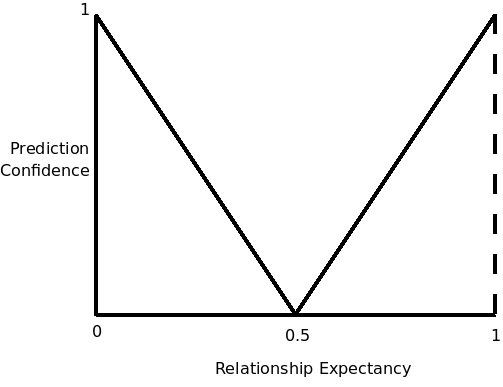
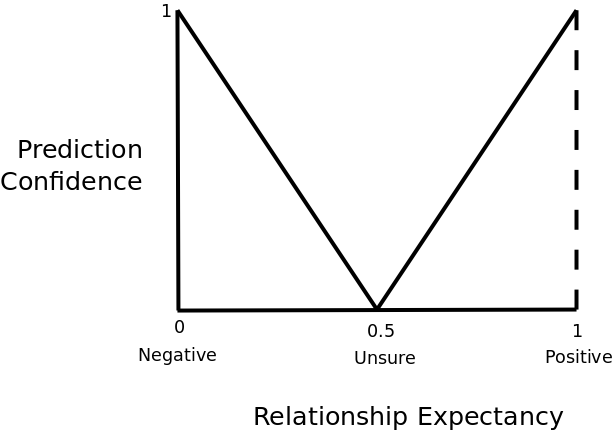
expanded the thesis beginning - analysis

diff --git a/docs/dp_recommender_cvengros.tex b/docs/dp_recommender_cvengros.tex
@@ -175,8 +175,9 @@ Supervisor's e-mail address: \vedoucimail\\
     
     Recommender systems are programs operating on large amount of data in software systems. Recommender systems try to present items such as books, music, news, etc. that are likely to be interesting for a given user. These systems may be helpful for users that are choosing between a large number of items and aren't willing to browse information about all available items.
     
-    Traditional recommender systems are specific to a particular domain of recommended items. Our view is more general and involves domain independence and a prediction of any type of relationship between the objects in the domains. The thesis aims to create a prototype of a \emph{Universal Recommender} system, a system applicable to various domains, prediciting relationships of the given type using already known relationships.
+    Traditional recommender systems are specific to a particular domain of recommended items. Our view is more general and involves domain independence and a prediction of any type of relationship between the entities in the domains. The thesis aims to create a prototype of a \emph{Universal Recommender} system, a system applicable to various domains, prediciting relationships of the given type using already known relationships.
     
+    %tohle opravit
     In the introductory chapter we describe the basic structure of the thesis. Then we give a formal definition of a recommender system. Finally we review projects and papers that have been created on the universal recommender topic.
     
     \section{Thesis Structure}
@@ -186,26 +187,94 @@ Supervisor's e-mail address: \vedoucimail\\
     \section{Thesis Concepts}
         The section describes the main concepts of the thesis. We list the most important features, establish the purpose of the thesis and briefly show the distinction from the existing work.
         
+        \subsection{Main Features}
         The main concepts of the thesis are:
         \begin{description}
                 \item[Problem analysis and design of a solution.] The main goal of the work is to analyze the problem of a universal recommender, to create an architecture of the recommender system, design its interfaces and provide an implementation draft. The intefaces should be usable in real-world applications.
                 \item[Domain independence.] The recommender should work on any domain it's addapted to. It can't rely on any domain-specific assumptions. 
                 \item[Using various relationships.] For the recommendation, the recommender should be able to use any number of relationships available in the domain.
                 \item[Recommending given relationship.] The recommender should be able to predict any given relationship, not just the ``rating'' relationship as most recommenders do.
-                \item[A recommender, not a framework.] The adaptation to the given domain should be simple and without any need for programming. As opposed to recommendation frameworks that give resources to implement a recommender, our system should be a complete recommender ready to be addapted and used on an arbitrary domain.
-                \item[Pluggable user interface.] The recommender should contain a web-based user interface for presenting the recommendations. The interface should be pluggable an existing web application, so that it can look like a part of the system and the user doesn't have to leave system web pages. 
+                \item[A recommender, not a framework.] The adaptation to the given domain should be simple and should require minumum changes in the parent system. As opposed to recommendation frameworks that give resources to implement a recommender, our system should be a complete recommender ready to be addapted and used on an arbitrary domain.
+                \item[Pluggable user interface.] The recommender should contain a web-based user interface for presenting the recommendations. The interface should be pluggable to an existing web application, so that it can look like a part of the system and the user doesn't have to leave system web pages to see his/her recommendations. 
                 \item[Verification on various domains.] The recommender should be addapted to at least three domains to verify its universality and usability of the recommender interfaces. 
         \end{description}
         \subsection{Out of Scope}
         The section lists features that are relevant but out of the thesis scope. 
         \begin{description}
             \item[] preciznost a skalovatelnost implementace, optimalizace a rychlost dane implemetnace
-            \item[]dalsi hustoficury, ktere nestihnu, 
             \item[]nebudu merit vykon v case jenom nejak plus minus asymptoticky
             \item[Central server for multiple systems.] A single Unresyst instance isn't intended to be used as a central server for multiple domains - a Unresyst instance always refers to a single domain. Unresyst doesn't deal with matching the same subjects and objects appearing in multiple systems. 
-            \item[Collecting user preference] Unresyst doesn't help the system collecting any user actions for recommending. Implicit and explicit user feedback can be used for generating recommendations in Unresyst, but it has to be handled by the outer system and passed to Unresyst in the form of business rules and relationships. 
+            \item[Collecting user preference] Unresyst doesn't help the system collecting any user actions for recommending. Implicit and explicit user feedback can be used for generating recommendations in Unresyst, but it has to be handled by the outer system and passed to Unresyst in the form of business rules and relationships.
+            %\item[]dalsi hustoficury, ktere nestihnu, 
         \end{description}
 
+\chapter{Recommender Analysis}
+    \label{recommender_analysis}
+    In the chapter we discuss the circumstances under which recommender systems are a preferrable option both for users and system holders. Later in the chapter we describe the reasons for using our universal recommender (\emph{Unresyst}), we compare our recommender to existing solutions. Finally we formally define the problem of recommending.
+    
+    Recommender system is a part of a web-based application, that uses data about users and their behaviour to provide users with  items which are the most relevant to them. The recommended items are typically things that are liable to user taste, like books, music, news, etc.
+    
+    \section{Recommender System Benefits}
+        \label{recommender_system_usage}
+        The section summarizes reasons why recommender systems are useful for both users and system holders.
+        
+        \subsection{Benefits for System Users}
+            \label{benefits_for_users}
+            In a web-system like an e-shop or an internet radio a user is overloaded with items. The system database typically contains thousands of items divided into several categories. The recommender provides user with items that are likely to be interesting without requiring him/her to search for them. This saves user's time and helps him/her spend more time exploring the interesting items than messing around uninteresting items. The provided recommendations are personalized, they reflect the past user's behaviour and available data, so the recommendations are likely to be much accurate. 
+            
+            Recommender systems help users find novel items. When a user only browses and searches the system items, he/she usually gets stuck on a relatively small group of items. The recommendations usually contain items chosen by various criteria, so that they contain both items the user is familiar with and items that are likely to be interesting for the user, but the user wouldn't otherwise discover them.
+            
+            Apart from that, a recommender system can predict user's interest for a particular item. E.g. the last.fm festival recommender can predict user's interest in a particular festival based on the user's taste and the festival lineup \ref{lastfm_festivals}. This also saves user's time, he/she doesn't have to examine details of the items he/she that aren't likely to be interesting for him/her.
+        
+        \subsection{Benefits for a System Holder}
+            \label{benefits_for_holders}
+            A satisfied user is a key for the success of a web-system business. If the user easily finds interesting items in the system, he/she tends to return to the system regularly, which results in a high visit rate. 
+            
+            In an e-shop, if a user easily finds items that are appropriate for him/her, he/she is more likely to buy them. In a non-retail system like an internet radio, the system holder can also profit from a user finding appropriate items quickly. The user spends more time on pages that provide interesting information for him/her, which leads to more appropriate context advertisements with higher earnings.
+            
+            Another interesting feature recommender systems provide to e-shop holders is the ability to include promoted items to recommendations. E-shop holders can artificially increase the recommendation rates of the promoted goods in order they apeear in recommendations for more users. However, this feature should be used moderately because it distorts the results of the recommender algorithm. A massive propagation of items that are promoted by the system holder but are not very interesting for particular users may lead to a loss of user's trust for the recommender.
+            
+            And last but not least, a recommender system provieds a competitive advantage. Web business leaders like Google or Amazon have already implemented recommenders in their systems, for smaller companies a recommender system may be a key advantage over their rivals.
+    
+    \section{Universal Recommender Analysis}
+        \label{universal_recommender_analysis}
+        In the section we describe the position of the proposed recommender system (\emph{Unresyst}) on the market. We depict advantages and disadvantages of the Unresyst recommdender, we compare Unresyst to existing sollutions. Finally we propose processes for incorporating Unresyst to a web-based system and for running a system involving Unresyst.
+        
+        The proposed Unresyst recommender is a domain-independent recommender system that is able to use various relationships between the domain entities. Unresyst is an independent software component that logically stands outside the web-based parent system. It comminicates with the parent system through a defined API. Detailed information on the system architecture can be found in the section \ref{architecture}. 
+        
+        Unresyst itself doesn't contain any domain-specific data or methods. In order to work correctly on the given domain, it has to be addapted to it. Addaptation data make Unresyst use domain knowledge for making recommendations. Addaptation is designed so that it's as easy as possible. Adaptation data are stored in the parent system and are used during the communication with Unresyst. Detailed description on the adaptation can be found in the section \ref{adaptation_data}. 
+        
+        In order to provide high quality recommendations, Unresyst can take use of any \emph{relationships} between the entities in the system domain. Additionally, the business knowledge can be transformed to \emph{rules} and used for generating recommendations. Both rules and relationships are stored in the addaptation data. See sections \ref{representing_rules}, \ref{representing_relationships} for details on rule and relationship representation.
+        
+        \subsection{Universal Recommender Applicability}
+            \label{universal_recommender_applicability}
+            
+            Compaines that run big global web-systems generally have enough resources to develop their own recommender systems that are specifically designed for their needs. Therefore, Unresyst is aimed at small and mid-size web systems. The goal of the Unresyst concept is to provide companies a way to implement a recommender system without having to develop their own recommender solution, which is often both time and money consuming. With a bit of configuration, Unresyst provides the recommending accuracy comparable to a custom-made recommender system.
+            
+            Data that can be used by Unresyst include but are not limited to:
+            \begin{description}
+                \item[Demographic information] both user and items
+                \item[User behaviour]
+                \item[Explicit feedback]
+                \item[Social relations]
+                \item[Other user attributes]
+                \item[Other item attributes]
+             \end{description}
+        \subsection{Comparison to Existing Solutions}
+        
+        \subsection{Unresyst Process Proposal}
+            depends on particular company, environment, brief
+        
+        
+        
+
+    \section{Comparison}
+        \subsection{Advanced Search}
+        Some systems provide advanced item search 
+        - user activity
+        - user knows what he wants
+        - taste 
+        - sorted by relevance to search criteria not by preference
         
     \section{Definitions}
         \label{definitions}
@@ -236,7 +305,7 @@ Supervisor's e-mail address: \vedoucimail\\
             There are two differences to the definition in \cite{survey}. Firstly, we define our function on a \emph{Subject domain $S$}, instead of the User domain. In our view an adressee of a recommendation can be anything, not just a user. In some cases $S=O$, e.g. when we are recommending new friends to a user.  Secondly, we parametrize the utility function by the given relationship type $R$. In our system a recommendation can be done in the means of the given relationship type. 
             
         \subsection{Relationship Prediction}
-            \label{relationship_prediction}
+            \label{def_relationship_prediction}
             \emph{Relationship Prediction} $\hat{u}$ is an approximation of the utility function $u$: 
             \begin{equation}
                 \label{eq_relationship_prediction}
@@ -246,7 +315,7 @@ Supervisor's e-mail address: \vedoucimail\\
             
             For a given subject-object pair, $\hat{u}$ gives:
             \begin{description}
-                \item[Expectancy:] the predicted probabilitity of occurence of the given relationship type between the subject and the object. It's a number between $0$ and $1$. The value $1$ is reserved for the subject-object pairs, that are already connected by the relationship of the given type. Thus, the objects with relationship expectancy $1$ aren't presented to the subject. The recommended objects are usually presented ordered by the expectancy. The exact expectancy value doesn't have to be presented to the subject.
+                \item[Expectancy:] the predicted probabilitity of occurence of the given relationship type between the subject and the object. It's a number between $0$ and $1$. The value $1$ is reserved for the subject-object pairs, that are already connected by the relationship of the given type. Thus, the objects with relationship expectancy $1$ usually aren't presented. The recommended objects are usually presented ordered by the expectancy. The exact expectancy value doesn't have to be presented.
                 \item[Explanation:] a textual explanation why the object has been recommended. For some recommender algorithms explanations aren't available.
                 %\item[Relationship metadata values]: coming soon
             \end{description}
@@ -255,18 +324,22 @@ Supervisor's e-mail address: \vedoucimail\\
             
             Our concept is similar to the one used in the Duine framework \cite{duine}. The prediction techniques in Duine give a \emph{Prediction}, \emph{Validity indicators} and an \emph{Explanation} for each subject-object pair. \emph{Prediction} is an estimation of subject's rating of the object. \emph{Validity indicators} determine the \emph{confidence} of the techinque when predicting the rating. Low values mean, that the technique isn't confident about the \emph{Prediction} for the given subject-object pair, e.g. it doesn't have enough information to make a valid prediction. \emph{Explanation} has the same meaning as the one in our recommender. 
              
-            In a universal recommender we can't assume there will be a rating relationship between subjects and objects. Moreover, we are supposed to be able to predict any given relationship between subjects and objects, not just the preference expressed by the rating. In a Universal recommender, we only predict a $0/1$ indicator: the predicted relationship is between the given the subject and object, or it isn't. Hence we can shrink the prediction and confidence concepts into one - relationship expectance. 
+            In a universal recommender we can't assume there will be a rating relationship between subjects and objects. Moreover, we are supposed to be able to predict any given relationship between subjects and objects, not just the preference expressed by the rating. In a Universal recommender, we only predict a $0/1$ indicator: there is the predicted relationship between the given subject and object, or there isn't. Hence we can shrink the prediction and confidence concepts into one - relationship \emph{expectancy}. 
             
-            Let's show the reduction on an example. A recommender predicts, that \emph{Bob} will like the \emph{Five Days In Paris} book with $20\%$ probability. The like expectancy is $0.2$, which can be rewritten as giving prediction $1$ (Bob will like it) with the prediction confidence $0.2$. For us, this is the same as predicting that Bob won't like it with $80\%$ probability - giving a prediction $0$ with prediction confidence $0.8$. This is because, in our relationship representation, Bob either likes the book, or he doesn't. The events ``Bob likes the book'' and ``Bob doesn't like the book'' are complementary.
+            Let's show the reduction on an example. A recommender predicts, that \emph{Bob} will like the \emph{Five Days In Paris} book with $20\%$ probability. The like expectancy is $0.2$. For us, this is the same as predicting that Bob won't like it with $80\%$ probability. This is because, in our relationship representation, Bob either likes the book, or he doesn't. The events ``Bob likes the book'' and ``Bob doesn't like the book'' are complementary.
             
-            In other words, low relationship expectance can mean low prediction value with high confidence as well as high prediction value with low confidence. But as the predicted indicator is of a $0/1$ type, we don't have to differentiate these cases. 
+	    % like s 20% confidence neni to samy jako like s 20% expectancy. Confidence u like musi zacinat na 0.5. Pod 0.5 je to dislike - pomoci confidence se nejde prepnout z like do dislike.
             
             % napr. prediction 0, confidence 0.75 je to samy jako prediction 1, confidence 0.25. Protoze P(0) = 0.75 = 1-0.25 - protoze jevy 0 a 1 se vylucuji. 
             
-            The dependency between relationship expectancy and prediction confidence is illustrated on the figure \ref{pic_expectancy_confidence}. Let prediction confidence be a function to $[0,1]$ determining how sure the recommender is about the given relationship prediction. Expectancy values just above zero indicate that the recommender is quite sure that there won't be the given relationship between the given subject-object pair. Expectancy values near $0.5$ mean low confidence for the prediction. Especially $0.5$ means that according to the recommender, the probability of the relationship occurence is the same as for non-occurence. Expectancy values close to $1$ mean that recommender is quite sure, that there be the given subject-object pair will be connected by the given relationship. 
+            The dependency between relationship expectancy and prediction confidence is illustrated on the figure \ref{pic_expectancy_confidence}. Let prediction confidence be a function to $[0,1]$ determining how sure the recommender is about the given relationship prediction. Expectancy values just above zero indicate that the recommender is quite sure that there won't be the given relationship between the given subject-object pair. Expectancy values near $0.5$ mean low confidence for the prediction. Especially $0.5$ means that according to the recommender, the probability of the relationship occurence is the same as for non-occurence. Expectancy values close to $1$ mean that recommender is quite sure, that the given subject-object pair will be connected by the given relationship. 
 
-            \fig[9]{pics/expectancy_confidence.png}{The dependency between relationship expectancy and prediction confidecne.}{pic_expectancy_confidence}
-
+            \fig[9]{pics/expectancy_confidence.png}{The dependency between relationship expectancy and prediction confidence.}{pic_expectancy_confidence}
+	    
+	    Expectancy can be useful for ordering the obtained recommended objects. For example, let's suppose we are predicting the ``like`` relationship and the list of recommended objects is ordered by the expectancy. At the beginning of the list there are objects the subject will probably like (the expectancy is close to $1$). Then there are objects the recommender is not sure about (the expectancy is around $0.5$). At the bottom of the list there are objects that will be probably disliked by the subject (the expectancy is close to $0$).
+	    
+	    On the other hand, expectancy isn't much intuitive for specifying the relationships in a system, so giving positiveness and confidence are used there (see \ref{representing_relationships}, \ref{representing_rules}).
+	    
             In our universal recommender we don't support rating prediction directly. But as subject-object rating means a level of subject-object preference, we can estimate rating using our relationship expectancy. We only need to define mapping from relationship expectancy values to rating. Taking the subject and object from the previous example (Bob and Five Days in Paris), we can interpret Bob's $0.2$ like relationship expectation, to the rating 1 star on a 0 to 5 star scale. 
 
         \subsection{Recommendation}
@@ -280,7 +353,7 @@ Supervisor's e-mail address: \vedoucimail\\
             
             The recommender always chooses exactly $N$ objects, except the case where there are less than $N$ objects available for recommendation. The chosen objects are presented to the subject ordered by the Recommendation Rate.
             
-            For instance, using the example in \ref{relationship_prediction}, the friendship recommender presents ten other community server users to Alice. The users are sorted by the relationship prediction rate which reflects the number of mutual friends.
+            For instance, using the example in \ref{def_relationship_prediction}, the friendship recommender presents ten other community server users to Alice. The users are sorted by the relationship prediction rate which reflects the number of mutual friends.
         
         \subsection{Adaptation}
         \subsection{Relationship for Recommender}
@@ -532,7 +605,8 @@ Supervisor's e-mail address: \vedoucimail\\
         obrazek class diagram:
 	    Classes are displayed as rectangles, objects as rectangles with round corners. All the classes are \emph{purely static} - there are no instances of the classes, the classes contain only class methods. They act as singleton objects.
 	    The diamond relationships mean that the given class/object can be accessed only from the containing class. 
-        
+    \section{Adaptation Data}
+        \label{adaptation_data}
         \subsection{Representing Rules}
             \label{representing_rules}
             
@@ -540,7 +614,7 @@ Supervisor's e-mail address: \vedoucimail\\
             
             The RACOFI framework \cite{racofi} uses two types of actions: \emph{Modify} that modifies the predicted subject's object rating by a given constant and \emph{Not Offered} that excludes an object from subject's recommendation.
             
-            Our rules aren't modifying predictions, but they serve as an input for predicting. Therefore we will use absolute  relationship expectancy, not relative values as in RACOFI \emph{Modify} rules. The \emph{Not Offered} rule type can be represented by a rule giving the minimal possible expectancy, so we won't have a special rule type for it. 
+            Our rules aren't modifying predictions, but they serve as an input for the predicting algorithm. Therefore we will use absolute values, not relative values as in RACOFI \emph{Modify} rules. The \emph{Not Offered} rule type can be represented by a rule giving minimal value, so we won't have a special rule type for it. 
             
             In our rules we would also like to represent inter-entity similarity. Hence we will use the following types of rules:
             \begin{description}
@@ -555,18 +629,31 @@ Supervisor's e-mail address: \vedoucimail\\
             
             Another option would be to directly use a logic programming language as \emph{Prolog}. This option has the same drawbacks in over-generality and user-unfriedliness as RuleML. Additionally we would have to incorporate a logic programming language interpreter to Unresyst.  
             
-            A better option is to implement our own \emph{Object-oriented rule representation}, where we represent rules as instances of a rule class. In the addaptation phase, the domain expert instantiates the pre-defined class to create a business rule.
+            A better option is to implement our own \emph{Object-oriented rule representation}, where we represent rules as instances of a rule class. In the addaptation phase, the domain expert instantiates the pre-defined classes to create  business rules.
             
             In the figure \ref{pic_semantic_network} there is an example of a semantic network that can be a part of the parent system. The network belongs to a shoe e-shop. Alice and Bob are users living in the same city. Alice has searched the word ``trainers'' which is a part of the description of the pictured trainers. In the trainer shoe description there's also the word ``comfortable'', which is also a part of the description of the displayed rubber boots. Bob has viewed a profile page of the trainers. The trainers and the rubber boots were made by a manufacturer seating in the city where Alice and Bob lives.
             
             \fig{pics/semantic_network.png}{A sample semantic network for demonstrating rules and relationships.}{pic_semantic_network}
             
+            The \emph{expectancy} concept (\ref{def_relationship_prediction}) is powerful but not very intuitive for defining the impact of the rules on predicting relationships. By defining a rule with expectancy we would be able to indicate positive as well as negative impact on predicting the given relationship because low values of expectancy have negative impact on preference and high values positive. Defining directly the expectancy of a rule would result in complicated functions and could lead to confusion and misinterpretation. Hence, for rule definition, we use a less general but more intuitive concept of \emph{confidence} and \emph{positiveness}.
+            
+            Each rule is either defined as \emph{positive} or \emph{negative}. Positive rules increase the prediction of the given relationship, negative rules decrease it. Each rule additionally has a confidence function defining how strong (positive resp. negative) the rule is for the given pair of entities. Events that can have both positive and negative impact should be represented by two rules.
+%             synergic
+            
+            % kdyz chces udelat relationship ktere kdyz neni, tak je to negative, tak si udelej dve relationships
+            
+            %to samy u rules - idea je aby to pocitalo jenom s tim co mu explicitne zadas. to ze mu reknes, nedoporucuj zimni boty jizanum jeste neznamena doporucuj zimni boty severanum - pokud to chce, at si na to explicitne zada pravidlo.
+            
+            %expectancy mu vubec nedovolim zadavat - to si budu pocitat sam.
+            
             In the examples, we will be predicting the \emph{like} relationship, representing the preference of the user to the given shoe pair. We will demonstrate the rule definition on the following rules:
             \begin{enumerate}
-                \item \label{ex_s_o} If a user is from a city in the south, we won't recommend him/her winter shoes.
-                \item \label{ex_s_s} If two users are about the same age, they are considered similar. 
-                \item \label{ex_o_o} When two pairs of shoes have in their description some common words, they are considered similar.
+                \item \label{ex_s_o} If a user is from a city in the south, we won't recommend him/her winter shoes (negative).
+                \item \label{ex_s_s} If two users are about the same age, they are considered similar (positive).
+                \item \label{ex_o_o} When two pairs of shoes have in their description some common words, they are considered similar (positive).
             \end{enumerate}
+            
+            Note that we define only one side of the rules (either positive or negative). E.g. by defining that we won't recommend winter shoes for southern users, we don't say that we would like to recommend winter shoes to northern users. If we wanted to extend the rule this way we would define a new positive rule. 
             
             For our object-oriented rule representation we need to define a class which instances hold conditions, actions and some additional data. As we have showed, the only possible actions are determining the expectancy of the subject-object relationship and determining inter-entity similarity. Therefore actions will be represented as functions giving an expectancy or similarity respectively. The rule objects contain:
             \begin{description}
@@ -576,41 +663,44 @@ Supervisor's e-mail address: \vedoucimail\\
                     \item[Subject-subject condition] $C_{ss}:S \times S \to \{False, True\}$. A function takes a subject-subject pair and determines whether the rule can be applied to the pair. Example \ref{ex_s_s}: If we know the age of both of the users, the condition is \emph{True}, otherwise it's \emph{False}.
                     \item[Object-object condition] $C_{oo}:O \times O \to \{False, True\}$. A function takes an object-object pair and determines whether the rule can be applied to the pair. Example \ref{ex_o_o}: If the descriptions of the shoes share some words, the condition is \emph{True}, otherwise it's \emph{False}. 
                 \end{description}
-                \item[Expectancy:] A function determining the strength of the subject-object preference in means of the predicted relationship or subject-subject/object-object similarity.
+                \item[Is Positive:] A  boolean constant (\emph{True} or \emph{False}) for determining whether the rule is positive for the predicted relationship or negative.
+                \item[Confidence:] A function determining the strength of the subject-object preference in means of the predicted relationship or subject-subject/object-object similarity in a positive or negative way.
                 \begin{description}
-                    \item[Subject-object relationship expectancy] $D_{so }:S \times O \to [0,1]$. A function takes a subject-object pair and estimates a probability, that the \emph{predicted relationship} appears between the subject and the object. Values close to $1$ mean that, according to the rule, the object should be recommended to the subject. Low values close to $0$ mean that the object shouldn't be recommended to the object. Values in the middle (near $0.5$) mean that the rule is unsure about recommending the given object to the given subject - that makes a similar effect as if the condition $C$ wasn't satisfied for the subject-object pair. Example \ref{ex_s_o}: We can use a linear function. The more southern the city is, the lower is the resulting expectancy. Or we can simply remove the shoes from the user's recommendation by always returning zero.
+                    \item[Subject-object relationship confidence] $D_{so }:S \times O \to [0,1]$. A function takes a subject-object pair and gives a confidence, that the \emph{predicted relationship} appears (when positive) or doesn't appear (when negative). High values mean strong confidence. Low values mean that the rule is unsure about the impact (positive or negative) for the given subject-object relationship - that makes a similar effect as if the condition $C$ wasn't satisfied for the subject-object pair. Example \ref{ex_s_o}: We can use a linear function. The more southern the city is, the higher is the resulting confidence. Or we can simply remove the shoes from the user's recommendation by always returning $1$.
                     \item[Subject-subject similarity] $D_{ss}:S \times S \to [0,1]$. A function takes a subject-subject pair and determines similarity between the subjects. The higher the expectancy, the more similar the subjects are, according to the rule. Example \ref{ex_s_s}: Our function returns a normalized difference between the age of the two users. 
-                    \item[Object-object similarity] $D_{oo}:O \times O \to [0, 1]$ A function takes an object-object pair and determines similarity between the subjects. The higher the expectancy, the more similar the objects are, according to the rule. Example \ref{ex_o_o}: We can use a function returning the number of common words divided by the number of words in the description.
+                    \item[Object-object similarity] $D_{oo}:O \times O \to [0, 1]$ A function takes an object-object pair and determines similarity or dissimilarity between the subjects. The higher the confidence, the more similar (or dissimilar when negative) the objects are, according to the rule. Example \ref{ex_o_o}: We can use a function returning the number of common words divided by the number of words in the description.
                 \end{description}
-                \item[Weight:] $w \in [0,1]$ A constant between $0$ and $1$ determining the strength of the rule. Weight, unlike Expectancy, is independent of the particular entities on which the rule is evalutated. In our example, the number \ref{ex_s_o} will have a high weight (e.g. $0.8$), because it is quite specific. Other rules would have lower weight, e.g. $0.1$.
+                \item[Weight:] $w \in [0,1]$ A constant between $0$ and $1$ determining the strength of the rule. Weight, unlike confidence, is independent of the particular entities on which the rule is evalutated. In our example, the number \ref{ex_s_o} will have a high weight (e.g. $0.8$), because it is quite specific. Other rules would have lower weight, e.g. $0.1$.
                 \item[Description:] A text explaining the meaning of the rule. Descriptions can be used when presenting recommendations to users. In the text there can be gaps that that will be filled with a textual representation of entities. Our example rule \ref{ex_o_o} can have a description ``The shoe pairs \{object1\} and \{object2\} are similar because their descriptions contain some words in common.''
             \end{description}
             
-            Such rules can represent each of knowledge types described in \cite{knowledge_spain}, described in the section \ref{knowledge_based}. Catalog knowledge can be represented by rules accessing object properties in their Condition and Expectancy functions. Functional and user knowledge can be representing by rules using the relatioships between subjects and objects. 
+            Such rules can represent each of knowledge types described in \cite{knowledge_spain}, described in the section \ref{knowledge_based}. Catalog knowledge can be represented by rules accessing object properties in their Condition and Confidence functions. Functional and user knowledge can be representing by rules using the relatioships between subjects and objects. 
 
         \subsection{Representing Relationships}
             \label{representing_relationships}
             
-            Apart from defining business rules, the domain expert has to define which relationships are relevant for performing the prediction. This is done when adapting a system to Unresyst.
+            Apart from defining business rules, the domain expert can define which relationships are relevant for performing the prediction. This is done when adapting a system to Unresyst.
             
-            We have some specific requirements on the relationship representation. In the system there can be various entities, not only subjects and objects. The relationships can also span such entities. In our example on the figure \ref{pic_semantic_network} there're are the ``city'' entities, which aren't subjects nor objects but we use them in rules. Secondly, the relationships can have various relevance for predicting the given relationship. This should be implemented by assigning weights to relationships. 
+            We have some specific requirements on the relationship representation. In the system there can be various entities, not only subjects and objects. The relationships can also span such entities. In our example on the figure \ref{pic_semantic_network} there're are the ``city`` entities, which aren't subjects nor objects but we use them in rules. Secondly, the relationships can have various relevance for predicting the given relationship. This should be implemented by assigning weights to relationships. 
             
             We would like to represent relationships of the following types. The relationships don't have to be direct - on the path from subject/object to subject/object there can be an entity of any type. 
             
+            As for the rules, there can be both positive and negative relationships. Positive relationships increase the preference or similarity for the relevant entity pairs, negative relationships decrease it.
+            
             The following examples are related to the figure \ref{pic_semantic_network}.
             \begin{description}
-                \item[Subject-object relationships] indicate a subject's preference for the given object in means of the predicted relationship. In our example, if Bob has viewed a profile page of the trainers, we suppose he is quite interested in them.
-                \item[Subject-subject relationships] indicate similarity among subjects. For example if Alice and Bob live in the same city they are considered similar. 
-                \item[Object-object relationships] indicate similarity among objects. For example if the trainers and the rubber shoes were made by the same manufacturer they are considered kind of similar. 
+                \item[Subject-object relationships] indicate a subject's preference for the given object in means of the predicted relationship. In our example, if Bob has viewed a profile page of the trainers, we suppose he is quite interested in them (positive).
+                \item[Subject-subject relationships] indicate similarity among subjects. For example if Alice and Bob live in the same city they are considered similar (positive).
+                \item[Object-object relationships] indicate similarity among objects. For example if the trainers and the rubber shoes were made by the same manufacturer they are considered kind of similar (positive).
             \end{description}
 
             Obviously, the requirenemts on the relationship representation are very similar to the requirements we have set on rule representation. Hence, we can use the rule representation for relationships with some corrections:
             \begin{description}
                 \item[Condition:] The boolean function means whether the given subjects/objects are in the relationship. The forms of the function remain the same as described in the section \ref{representing_rules}. In the subject-object example, the Condition is a function returning \emph{True} if the user has viewed the profile page of the shoes, otherwise it returns \emph{False}.
-                \item[Expectancy:] The function won't be needed for representing relationships. If the Condition function returns $True$ for a subject/object pair the pair is surely in a relationship. Hence, such a function would always return $1$ for relationhips.
+                \item[Is Positive: ] A  boolean constant for determining whether the relationship is positive for the predicted relationship or negative. Works analogously to the Is Positive value in rules.
+                \item[Confidence:] The function won't be needed for representing relationships. If the Condition function returns $True$ for a subject/object pair the pair surely is (when positive) or isn't (when negative) in a relationship. Hence, such a function would always return $1$ for relationhips.
                 \item[Weight:] We need a way how to define the relevance of the relationship for predicting the relationship. Weight can be used on this purpose. In our example the ``viewed profile'' relationship would have higher weight than the others because it's the most specific relationship out of the three. 
                 \item[Description:] The textual explanation can be used for clarifying the meaning of the relationship. ``\{subject\} has viewed the profile of \{object\}.
-                 
              \end{description}
             
             Such a representation can use semantics of a system independently of its data model. There doesn't have to be a direct link between subjects/objects in the data model to define a relationship. For example Alice has searched for the word ``trainers'' which is in the description of the displayed trainers. Even though there isn't a direct connection in the data model, we can represent such a relationship in our system. Moreover, the relationships can be taken from various sources, e.g. multiple databases, data stores, or log files. The only thing that has to be provided to Unresyst is an implementation of a function returning whether the given subjects/objects are in the relationship.
@@ -716,6 +806,7 @@ http://www.netflixprize.com/assets/GrandPrize2009\_BPC\_BellKor.pdf
 \bibitem{ruleml}\verb!http://ruleml.org/!
 \bibitem{ruleml_short}\verb!http://ruleml.org/submission/ruleml-shortation.html!
 \bibitem{ruleml_prolog}\verb!http://centria.di.fct.unl.pt/~cd/projectos/w4/ruleml/index.htm!
+\bibitem{lastfm_festivals}\verb!http://www.last.fm/festivals!
 
 http://ids.csom.umn.edu/faculty/gedas/papers/recommender-systems-survey-2005.pdf
 odkazy:
